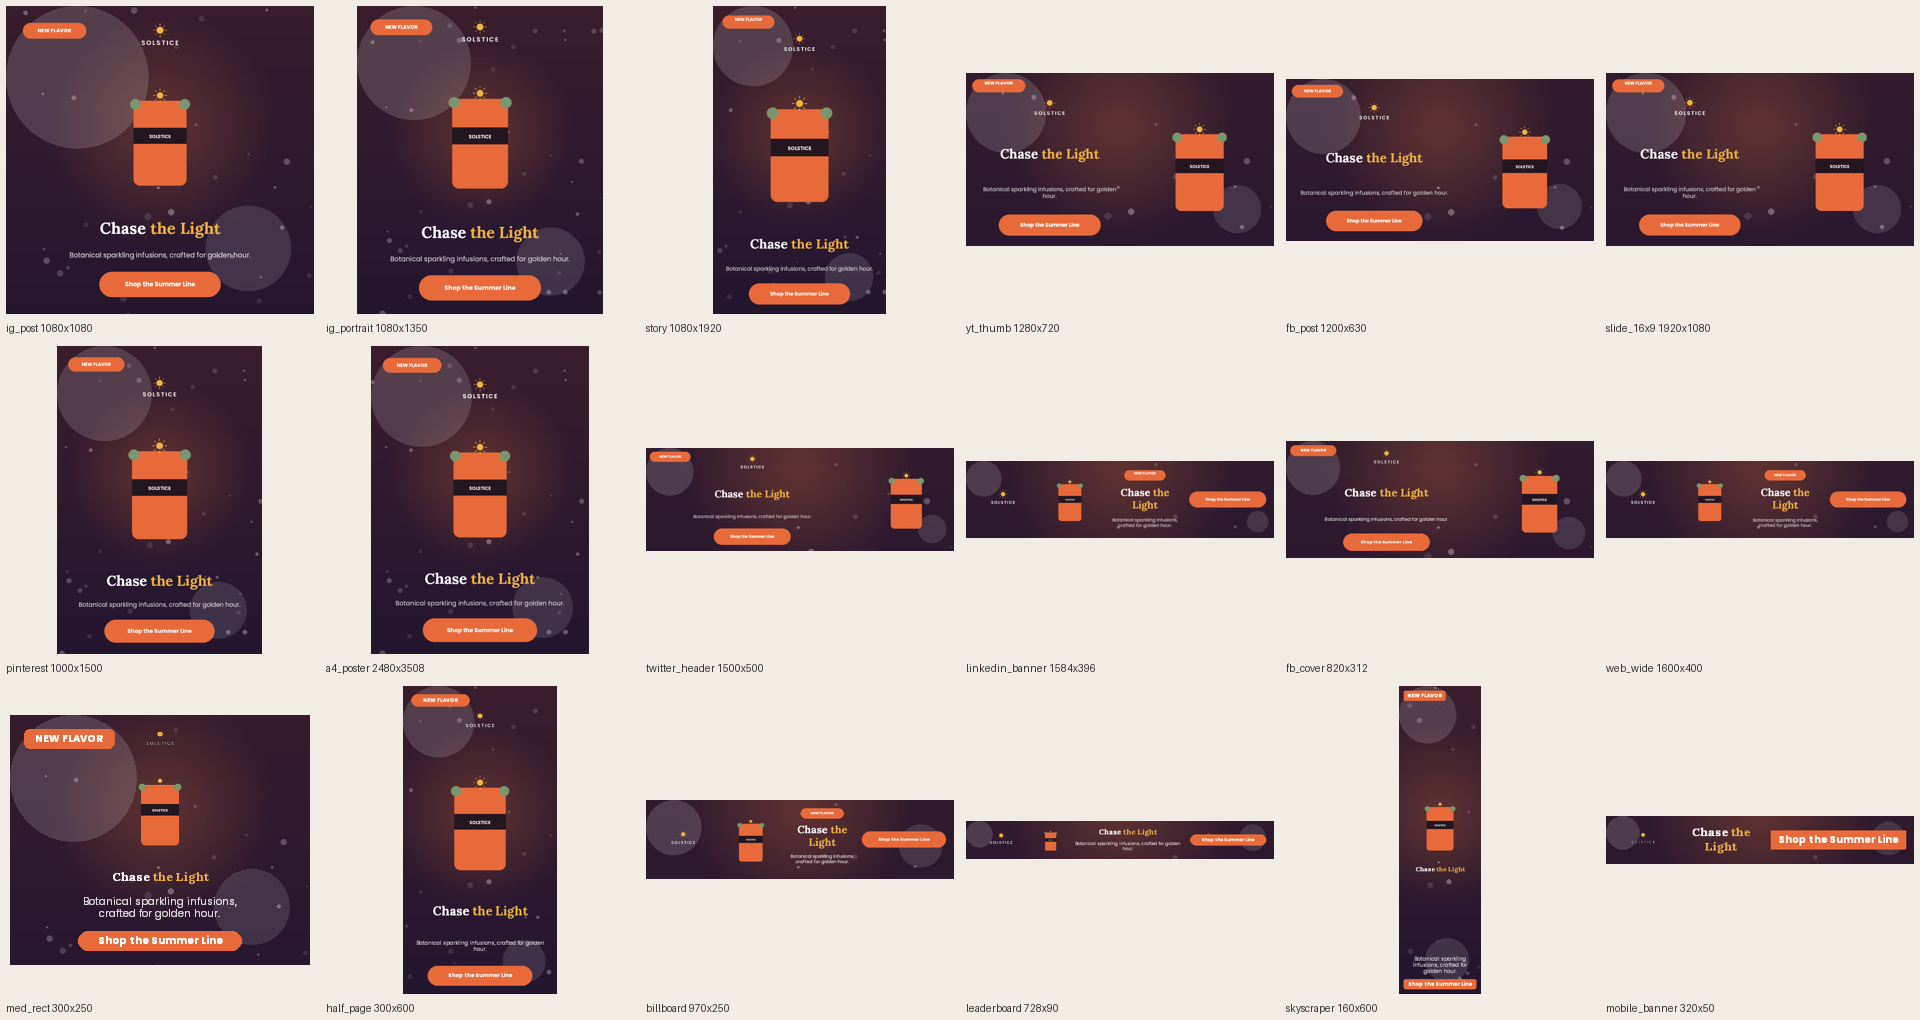
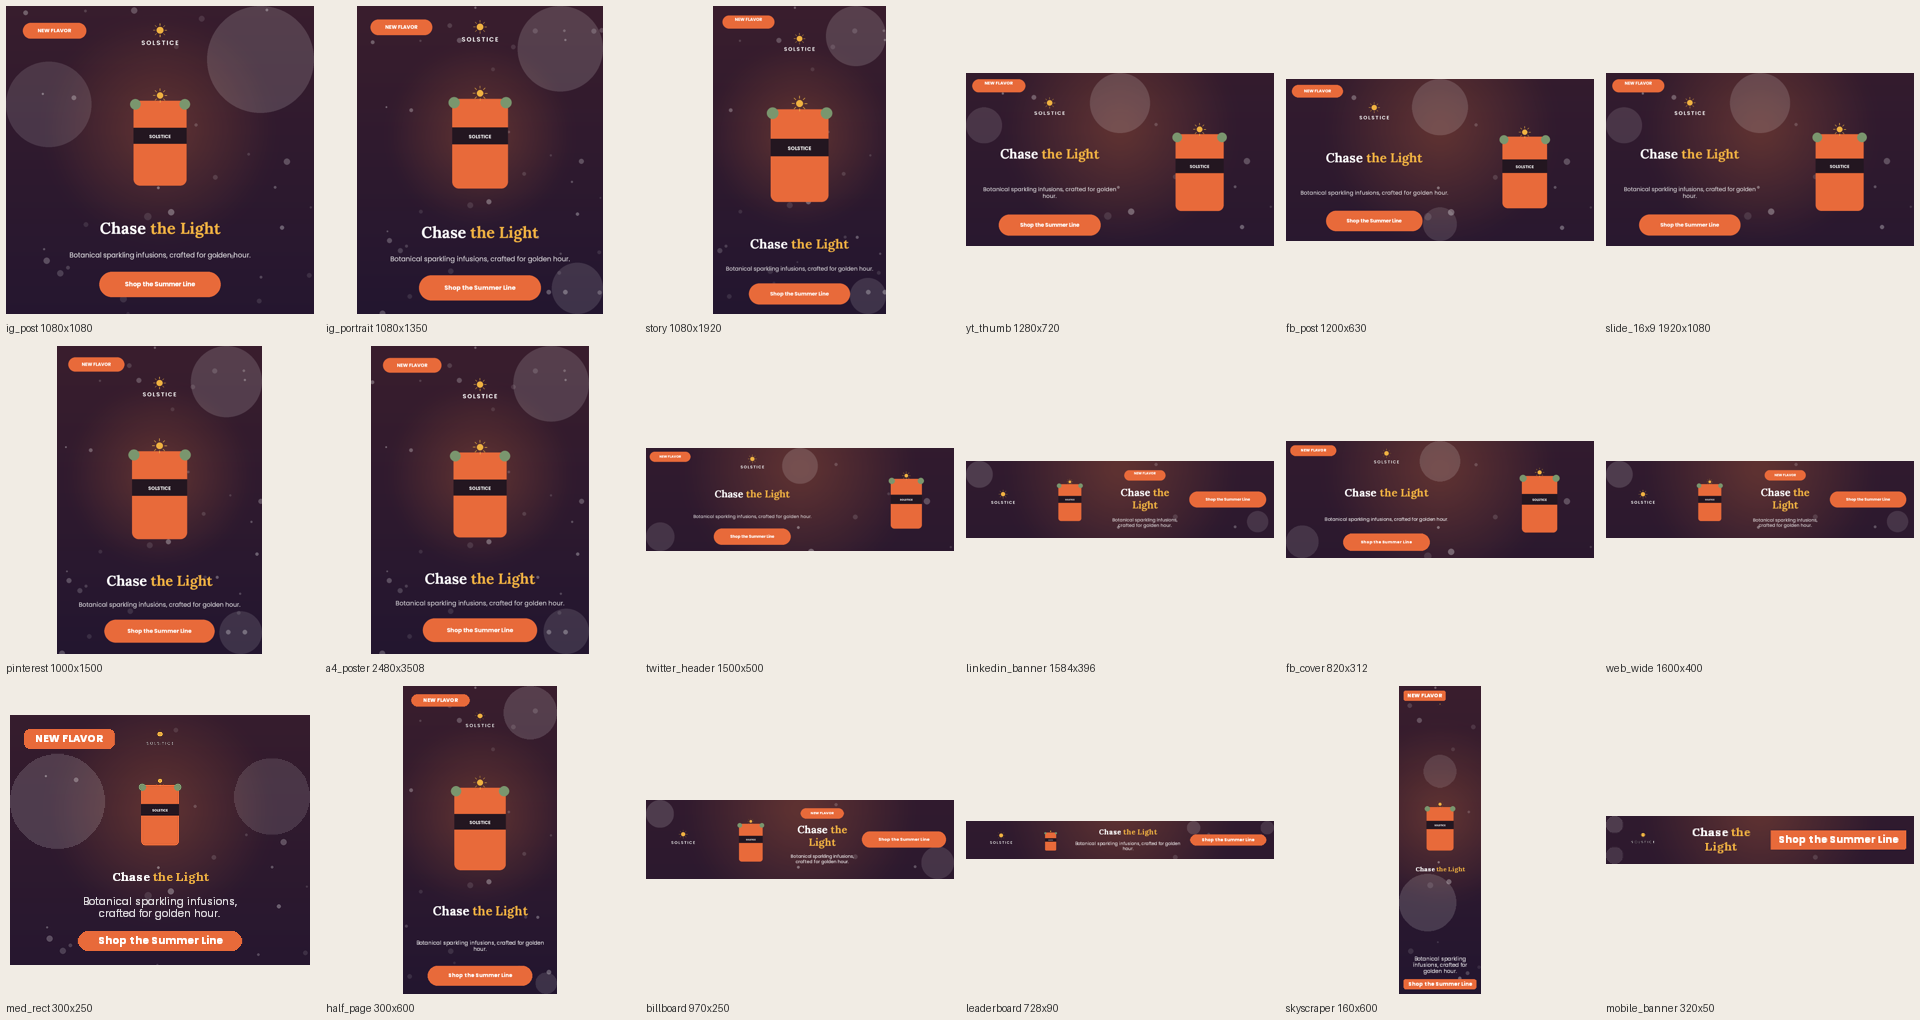
Place decorations in free space (idea merged from saanvi branch)
Decorative shapes are now placed after the layout is final: starting
from their corner-anchored spot, a grid of positions at 100/75/50% size
is searched for the one covering the least text and buttons (images may
be lightly layered over). Across 18 formats the Level 2 circles now
cover text/buttons in 1 size instead of 16.

Saanvi's full column-composition engine was compared on the same stress
test (0 hard failures but 60 sub-9px texts, placeholder for the missing
asset, ~100x slower), so only this part was merged. README gains a team
branch comparison.

Claude-Session: https://claude.ai/code/session_01JiDhXr6kG7eY4r3guwMKDf

diff --git a/engine/resize.py b/engine/resize.py
@@ -1337,6 +1337,42 @@ def _corner_anchor(el: dict, sw: float, sh: float, W: float, H: float, s: float)
     return {"x": x, "y": y, "width": w, "height": h}
 
 
+def _place_decor(decor: list[dict], props: dict, by_id: dict, skip: set,
+                 sw: float, sh: float, W: float, H: float, s: float) -> dict[str, dict]:
+    """Free-space search for decorative shapes (idea from the `saanvi`
+    branch). Starts from the corner-anchored spot, also tries a grid of
+    spots at 100/75/50% size, and keeps the one that covers the least text
+    and buttons. Pictures may be lightly layered over; decorations also
+    keep apart from each other."""
+    blockers = []
+    for eid, p in props.items():
+        if eid in skip or eid not in by_id:
+            continue
+        weight = 0.4 if by_id[eid]["type"] == "image" else 1.0
+        blockers.append(((p["x"], p["y"], p["x"] + p["width"], p["y"] + p["height"]), weight))
+    out: dict[str, dict] = {}
+    for e in decor:
+        home = _corner_anchor(e, sw, sh, W, H, s)
+        w0, h0 = home["width"], home["height"]
+        best = None
+        for f in (1.0, 0.75, 0.5):
+            w, h = w0 * f, h0 * f
+            spots = [(home["x"] + (w0 - w) / 2, home["y"] + (h0 - h) / 2)]
+            spots += [(i / 4 * (W - w), j / 4 * (H - h)) for i in range(5) for j in range(5)]
+            for px, py in spots:
+                px, py = min(max(px, 0.0), max(0.0, W - w)), min(max(py, 0.0), max(0.0, H - h))
+                rect = (px, py, px + w, py + h)
+                cost = sum(wt * _inter(rect, b) for b, wt in blockers)
+                cost += 0.2 * (1 - f) * w0 * h0          # prefer keeping its size
+                cost += 1e-3 * math.hypot(px - home["x"], py - home["y"])  # and its corner
+                if best is None or cost < best[0]:
+                    best = (cost, px, py, w, h)
+        _, px, py, w, h = best
+        out[e["id"]] = {"x": px, "y": py, "width": w, "height": h}
+        blockers.append(((px, py, px + w, py + h), 0.3))
+    return out
+
+
 def _clamp(el: dict, W: float, H: float) -> None:
     w, h = float(el["width"]), float(el["height"])
     rot = float(el.get("rotation", 0) or 0)
@@ -1455,8 +1491,6 @@ def resize(source: dict[str, Any], target_canvas: dict[str, Any]) -> dict[str, A
             props[bg["id"]] = {"x": 0, "y": 0, "width": W, "height": H}
             if bg["type"] == "image":
                 props[bg["id"]]["fit"] = "cover"
-        for d in m.decor:
-            props[d["id"]] = _corner_anchor(d, sw, sh, W, H, s_dec)
         for it in res.dropped:
             hidden_ids.update(it.ids)
         hidden_ids.update(e["id"] for e in m.hidden)
@@ -1483,6 +1517,9 @@ def resize(source: dict[str, Any], target_canvas: dict[str, Any]) -> dict[str, A
             u = _union(boxes)
             props[sh_el["id"]] = {"x": u[0] - pad, "y": u[1] - pad,
                                   "width": u[2] - u[0] + 2 * pad, "height": u[3] - u[1] + 2 * pad}
+        # decorations go last, into free space around the finished layout
+        bg_ids = {e["id"] for e in m.backgrounds}
+        props.update(_place_decor(m.decor, props, by_id, hidden_ids | bg_ids, sw, sh, W, H, s_dec))
 
     for e in out_elems:
         p = props.get(e["id"])

diff --git a/README.md b/README.md
@@ -80,7 +80,7 @@ The input has no semantic labels, so roles are inferred from geometry, z-order, 
 | Role | How it's recognised | How it's adapted |
 |---|---|---|
 | Background | image/shape covering more than 85% of the canvas | full-bleed on the new canvas (`fit: cover`, which is allowed to crop) |
-| Decoration | faint (alpha < 0.5) or off-canvas free shapes | scaled, pinned to the same corner, kept fully inside the canvas |
+| Decoration | faint (alpha < 0.5) or off-canvas free shapes | placed last, in free space: starts from its original corner, then searches a grid of spots and sizes for the one covering the least text and buttons (idea from the `saanvi` branch) |
 | Logo | small image near the top, wide aspect, or `logo` in the asset name | aspect-locked; pinned top in stacks, leads banner rows |
 | Hero image | largest remaining image | aspect-locked; gets the space that's left, never shrinks below the type scale |
 | Headline / body / legal | largest font / mid-size / ≤14px near the bottom | one shared type scale with readability floors |
@@ -116,7 +116,7 @@ Within each layout, the engine also checks whether hiding one or two *minor* ite
 
 ### 4. Finish
 
-- Backgrounds go full-bleed, decorations are re-anchored, and panels are re-wrapped around their contents.
+- Backgrounds go full-bleed and panels are re-wrapped around their contents. Then decorations are placed in free space around the finished layout.
 - Every element is clamped inside the canvas. For rotated elements, both the box and its rotated bounds are clamped.
 - **Hidden elements** keep their `id` and an in-canvas, in-proportion box, and get `opacity: 0`. For text, the colour alpha is also set to 0, because cr-renderer ignores `opacity` on text. The `content` itself is never changed.
 - If every layout fails (which never happened in testing), a uniform letterbox fallback guarantees a valid, undistorted output.
@@ -184,6 +184,20 @@ It exits with code 1 if any hard rule fails.
 - **Extreme ratios with long copy.** At sizes like 320×50, some content must be hidden. A finale add-on could let the user choose what survives, or offer several layout options.
 - **Heuristic roles.** Roles are inferred from geometry. Very unusual designs (e.g. several equally large headlines) may be ranked in an unexpected order. A multimodal model could refine roles in a future version.
 - **Copy and font adaptation** are deliberately out of scope for stage one, per RULES.md.
+
+## Team branches
+
+We built two engines in parallel and compared them with the same stress test (3 designs × 18 formats):
+
+| | `resize.py` (this branch) | `saanvi` branch (`resize_saanvi.py`) |
+|---|---|---|
+| Hard-rule failures | 0 | 0 |
+| Text below 9px | 2 | 60 |
+| Missing asset | hidden cleanly | grey placeholder box |
+| Time per resize | ~15 ms | ~1.5 s |
+| Decorations over text/buttons | 16 / 18 sizes → **1 / 18 after merging Saanvi's idea** | rarely |
+
+The submitted engine is `resize.py`. From the `saanvi` branch we merged its free-space decoration placement, which was clearly better than our fixed-corner anchoring. Her full column-composition engine remains on that branch for reference.
 
 ## Repository layout
 
